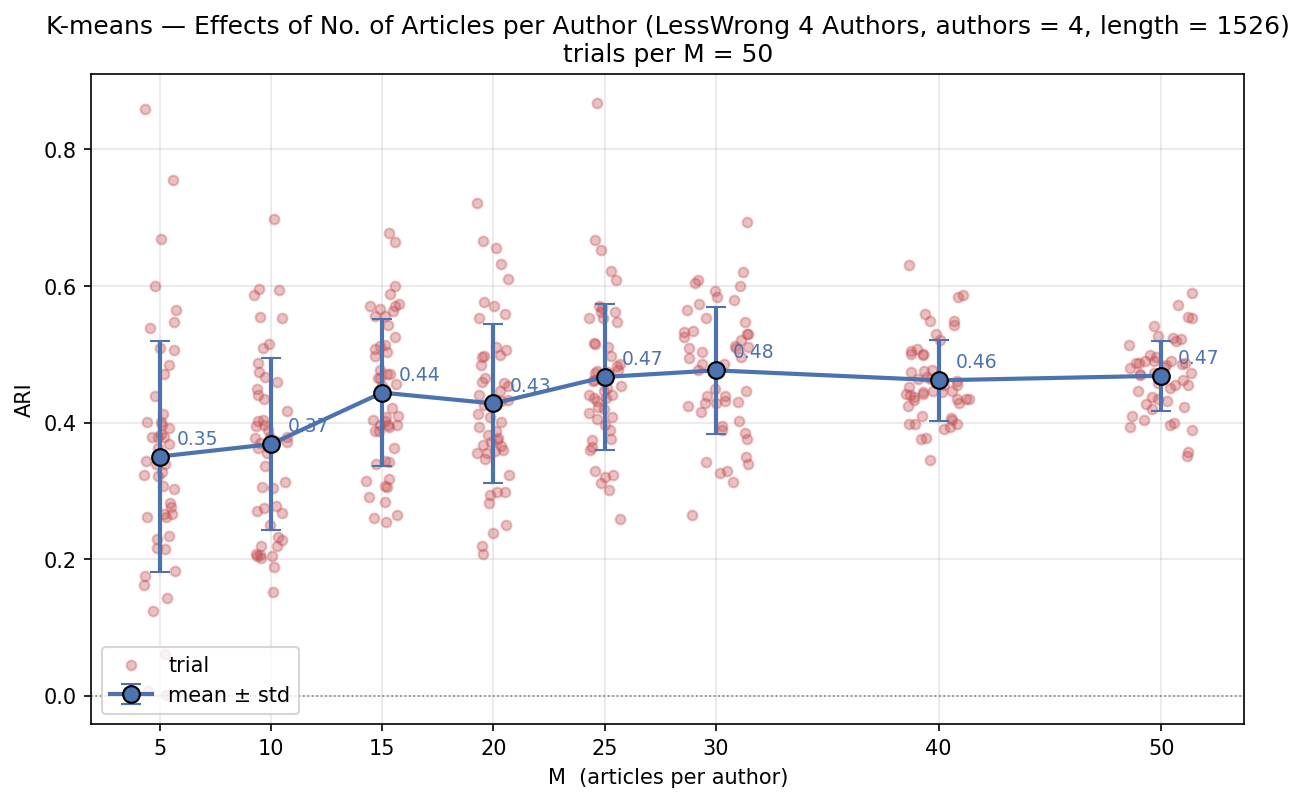
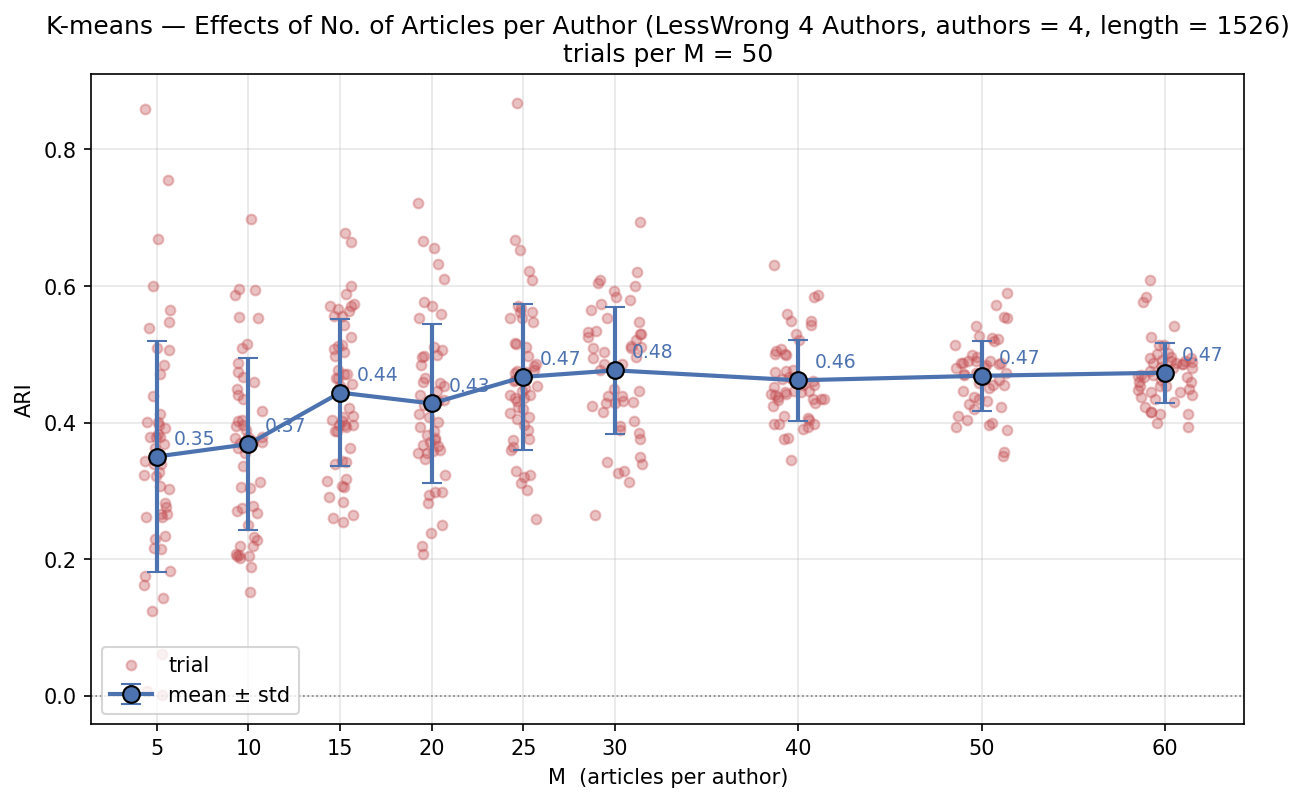
Add additional M_values to both graphs

diff --git a/problems/kmeans/effect_of_m.py b/problems/kmeans/effect_of_m.py
@@ -8,12 +8,12 @@ a confound when comparing across M values or datasets.
 Two datasets are tested:
 
   cleaned_10 — 10 authors, 40 docs/author available after filtering.
-    M in {5, 10, 15, 20, 25}.
+    M in {5, 10, 15, 20, 25, 30}.
     Each trial randomly samples K=4 authors from 10, then M docs per author.
     Author-group sampling adds extra variance across trials.
 
   cleaned_4 — 4 authors (= K), 76-79 docs/author available after filtering.
-    M in {5, 10, 15, 20, 25, 30, 40, 50}.
+    M in {5, 10, 15, 20, 25, 30, 40, 50, 60}.
     C(4,4)=1 so every trial uses all 4 authors; only docs are randomly
     sampled. Variance comes purely from doc selection + KMeans init.
 
@@ -60,8 +60,8 @@ N_TRIALS = 50
 N_INIT = 10
 GLOBAL_SEED = 42
 
-M_VALUES_10 = [5, 10, 15, 20, 25]               # cleaned_10: 40 docs/author
-M_VALUES_4  = [5, 10, 15, 20, 25, 30, 40, 50]   # cleaned_4:  76-79 docs/author
+M_VALUES_10 = [5, 10, 15, 20, 25, 30]               # cleaned_10: 40 docs/author
+M_VALUES_4  = [5, 10, 15, 20, 25, 30, 40, 50, 60]  # cleaned_4:  76-79 docs/author
 
 OUT_DIR = _PROJECT_ROOT / "outputs" / "kmeans" / "effect_of_m"
 OUT_DIR.mkdir(parents=True, exist_ok=True)